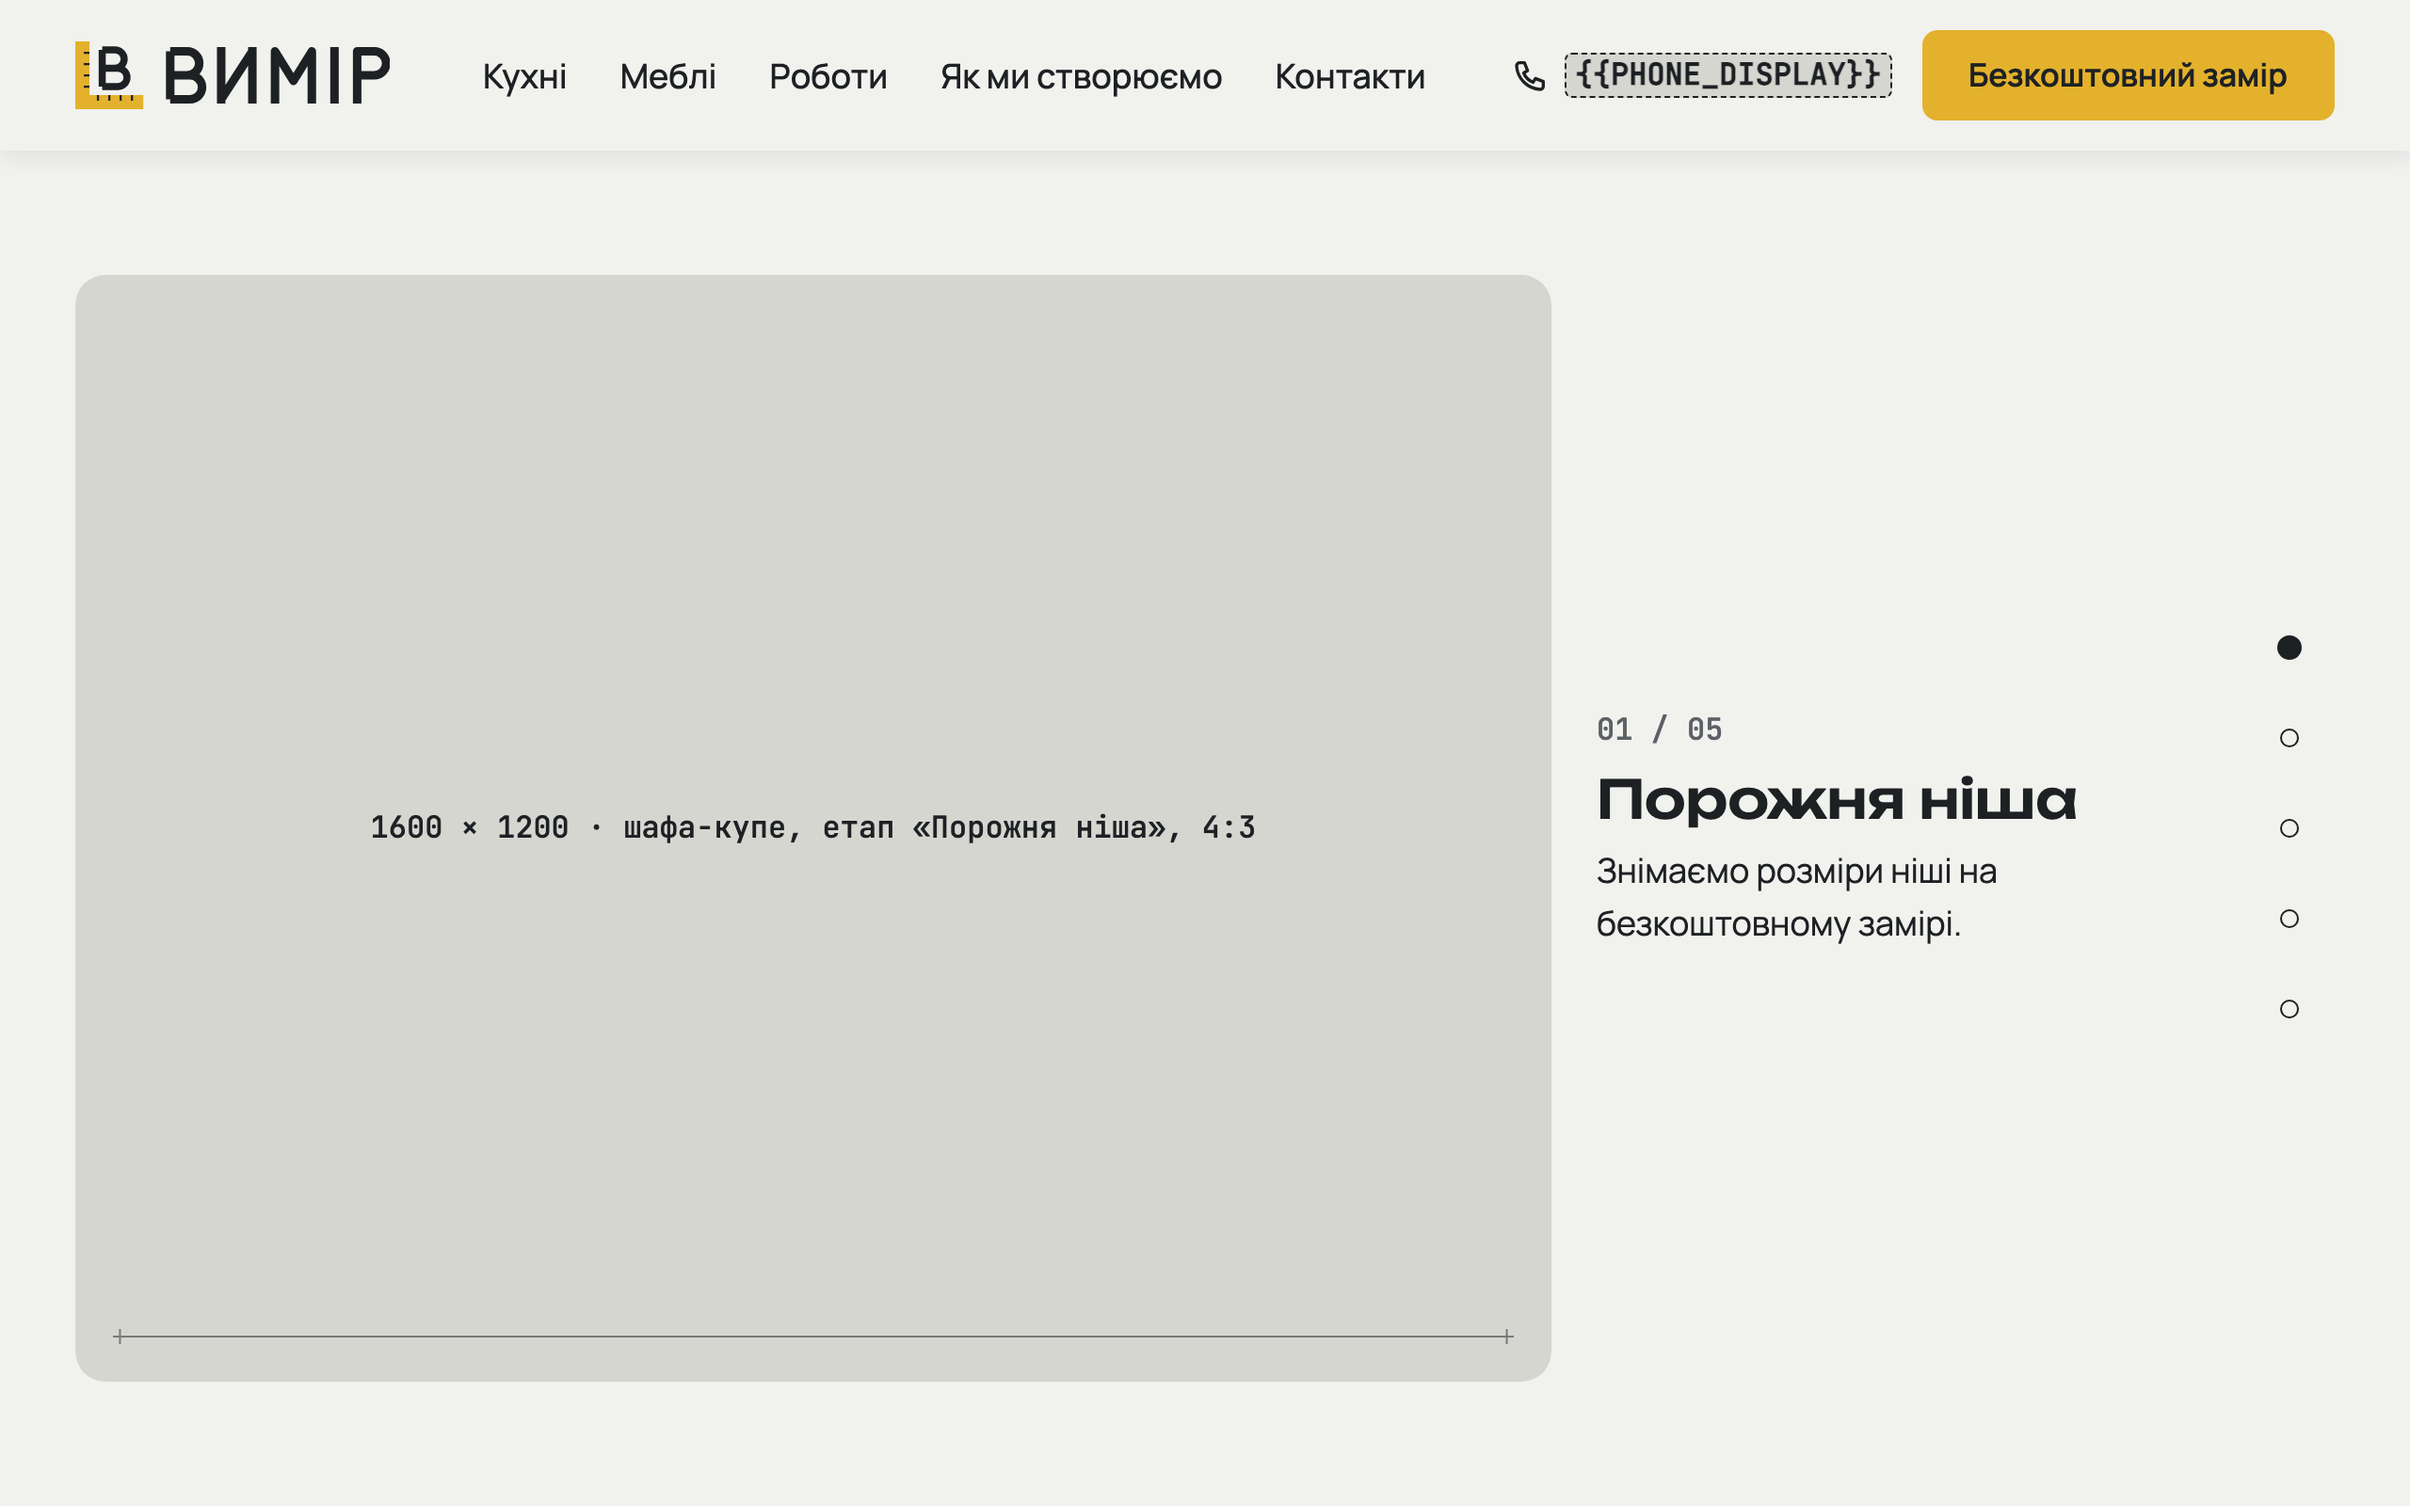
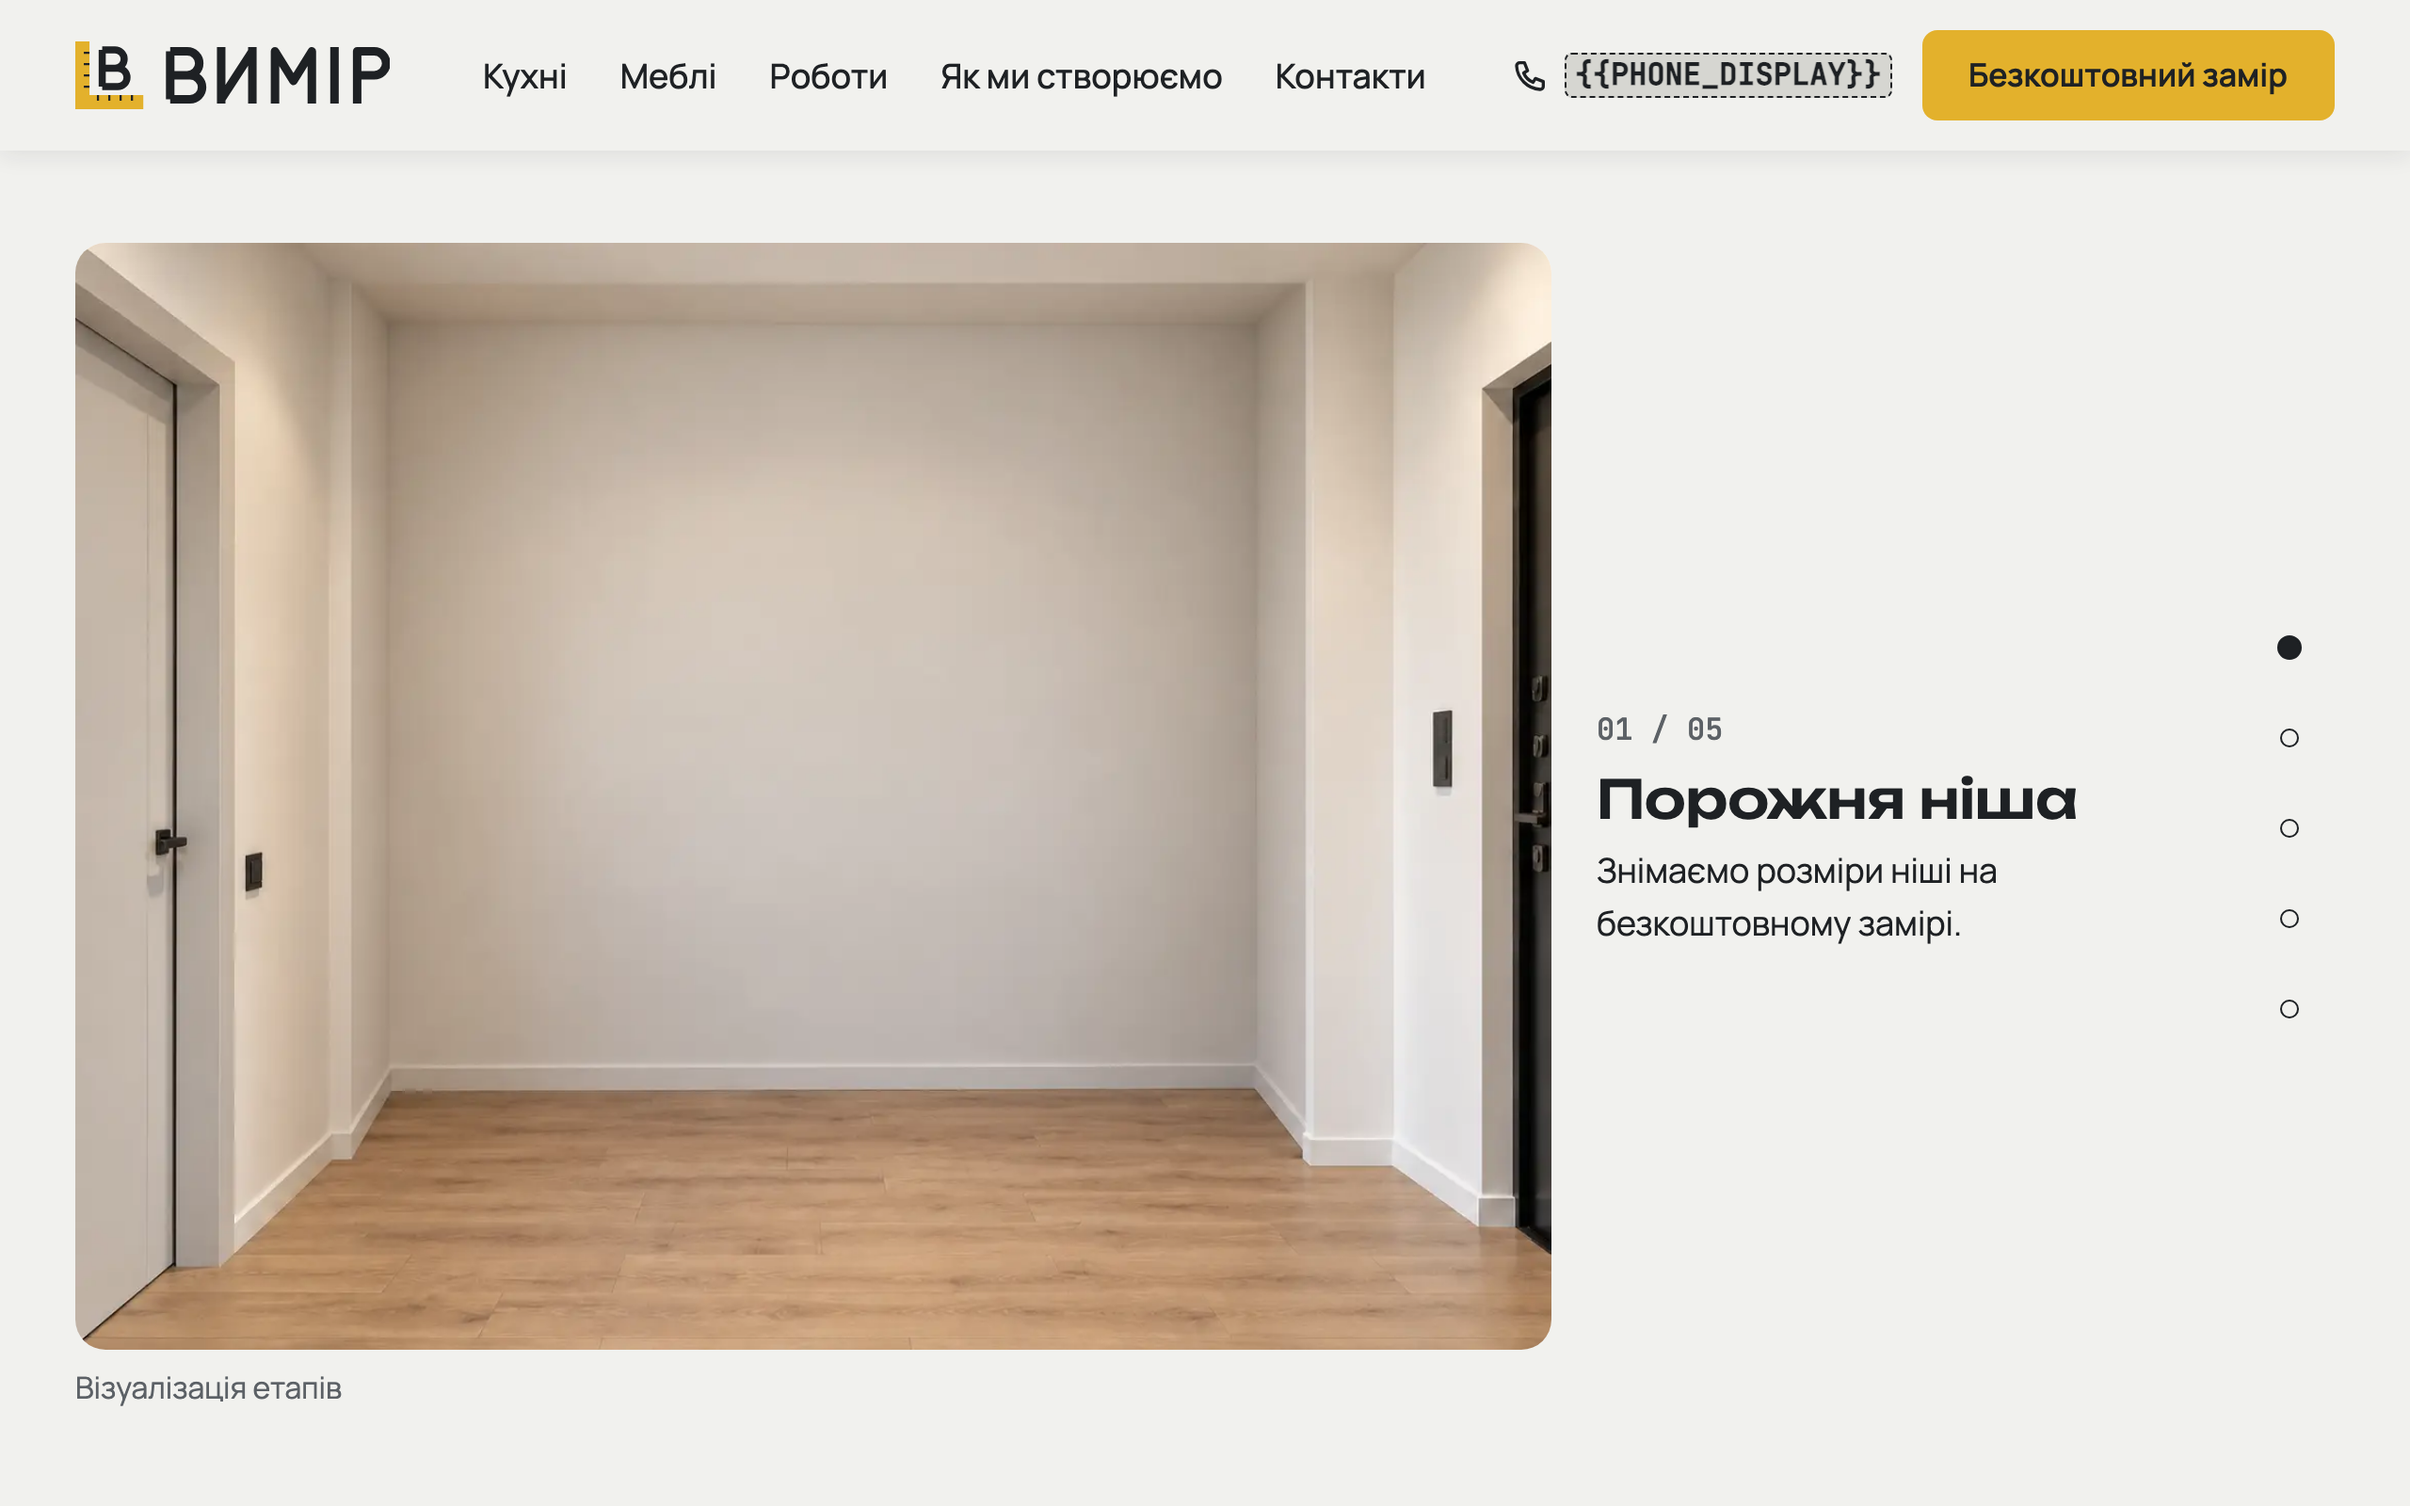
Як ми створюємо: кадри шафи-купе

diff --git a/tests/e2e/story.spec.ts b/tests/e2e/story.spec.ts
@@ -134,15 +134,23 @@ test.describe('содержимое', () => {
     await expect(page.locator(`${K} [data-step="0"] .story__note`)).toHaveCSS('color', 'rgb(92, 97, 102)');
   });
 
-  test('шафа-купе: 5 этапов из wardrobe.json, плейсхолдеры с подписью этапа', async ({ page }) => {
+  test('шафа-купе (flags.storyWardrobe): 5 этапов, кадры wardrobe-01 … 05, сцена 4:3, подпись «Візуалізація етапів»', async ({ page }) => {
     await page.goto(PATH);
     await expect(page.locator(`${W} h2`)).toHaveText('Шафа-купе');
     await expect(page.locator(`${W} .story__title`)).toHaveText(['Порожня ніша', 'Дизайн-проєкт', 'Корпус', 'Двері', 'Готово']);
     expect(wardrobe.stages.map((s) => s.title)).toEqual(['Порожня ніша', 'Дизайн-проєкт', 'Корпус', 'Двері', 'Готово']);
-    const labels = page.locator(`${W} .ph__label`);
-    await expect(labels).toHaveCount(5);
-    await expect(labels.nth(0)).toContainText('Порожня ніша');
-    await expect(page.locator(`${W} .story__note`)).toHaveCount(0); // плейсхолдер — не визуализация
+    const files = await page.locator(`${W} .story__step img.story__img`).evaluateAll((els) => els.map((e) => e.getAttribute('data-src') ?? e.getAttribute('src')));
+    expect(files).toHaveLength(5);
+    ['01-empty', '02-design', '03-carcass', '04-doors', '05-ready'].forEach((f, i) => expect(files[i]).toContain(`wardrobe-${f}`));
+    await expect(page.locator(`${W} .ph`)).toHaveCount(0); // плейсхолдеров больше нет
+    await expect(page.locator(`${W} .story__note`)).toHaveCount(5);
+    await expect(page.locator(`${W} .story__note`).first()).toHaveText('Візуалізація етапів');
+    await scrollToStage(page, W, 2);
+    await expect.poll(() => active(page, W)).toBe('2');
+    const frame = (await page.locator(`${W} [data-step="2"] .story__frame`).boundingBox())!;
+    expect(Math.abs(frame.width / frame.height - 4 / 3)).toBeLessThan(0.01);
+    await expect(page.locator(`${W} [data-step="2"] img`)).toHaveCSS('object-fit', 'contain');
+    await expect(page.locator(`${W} [data-step="2"] .story__note`)).toBeVisible();
   });
 
   test('размерные линии — только на этапе 1; на 375 px «ширина стіни» не касается розетки', async ({ page }) => {
@@ -163,12 +171,12 @@ test.describe('содержимое', () => {
     }
   });
 
-  test('кадры — WebP, каждый размер до 200 КБ', async ({ page }) => {
+  test('кадры обоих сюжетов — WebP, каждый размер до 200 КБ', async ({ page }) => {
     await page.goto(PATH);
     const urls = await page
-      .locator(`${K} .story__step img.story__img`)
+      .locator('[data-story] .story__step img.story__img')
       .evaluateAll((els) => els.flatMap((e) => (e.getAttribute('srcset') ?? e.getAttribute('data-srcset') ?? '').split(',').map((p) => p.trim().split(' ')[0])).filter(Boolean));
-    expect(urls.length).toBe(28);
+    expect(urls.length).toBe((7 + 5) * 4);
     for (const url of new Set(urls)) {
       expect(url).toMatch(/\.webp$/);
       const res = await page.request.get(url);

diff --git a/src/content/facts.ts b/src/content/facts.ts
@@ -233,6 +233,8 @@ export const facts = {
     teamCards: false as boolean,
     // Блок «Рекомендуйте нас» и вопрос о рекомендациях в FAQ. Поле «Хто вас порекомендував?» в формах есть всегда.
     referralEnabled: false as boolean,
+    // Сюжет «Шафа-купе» на странице «Як ми створюємо» (кадры получены 2026-10-21)
+    storyWardrobe: true as boolean,
   },
 } satisfies FactsSchema;
 
@@ -304,5 +306,6 @@ interface FactsSchema {
     leadSubmitEnabled: boolean;
     teamCards: boolean;
     referralEnabled: boolean;
+    storyWardrobe: boolean;
   };
 }

diff --git a/CLAUDE.md b/CLAUDE.md
@@ -99,11 +99,11 @@
 
 ## Решения владельца («Як ми створюємо», 2026-10-21)
 - Страница `/yak-my-stvoriuiemo`, общий компонент `src/components/story/Story.astro`, данные — `src/content/stories/<id>.json`.
-- Сюжет 1 — кухня, 7 кадров `src/assets/stories/kitchen/`: «Почнемо з вашого розміру», «Дизайн-проєкт», «Корпуси», «Фасади», «Стільниця», «Світло і техніка», «Готово». Сюжет 2 — шафа-купе: «Порожня ніша», «Дизайн-проєкт», «Корпус», «Двері», «Готово»; кадров пока нет — плейсхолдеры с подписью этапа.
+- Сюжет 1 — кухня, 7 кадров `src/assets/stories/kitchen/`: «Почнемо з вашого розміру», «Дизайн-проєкт», «Корпуси», «Фасади», «Стільниця», «Світло і техніка», «Готово». Сюжет 2 — шафа-купе, 5 кадров `src/assets/stories/wardrobe/`: «Порожня ніша», «Дизайн-проєкт», «Корпус», «Двері», «Готово»; включается флагом `facts.flags.storyWardrobe` (включён 2026-10-21).
 - Этапы меняются **прокруткой**: сцена закреплена (sticky, высота экрана), один этап на ~70 % высоты экрана, кадр и подпись (номер, заголовок, 1–2 строки) — перекрёстным затуханием. Сбоку индикатор этапов; клик по нему и стрелки — дополнительный способ.
 - При `prefers-reduced-motion` и без JavaScript этапы идут друг под другом статично.
 - Без библиотек, JS страницы до 10 КБ, анимируются только opacity и transform. Грузится текущий и следующий кадр.
-- Сцена 4:3 на всех ширинах, кадр без обрезки. Под кадром мелкая серая подпись «Візуалізація етапів».
+- Сцена 4:3 на всех ширинах, кадр без обрезки. Под кадром обоих сюжетов мелкая серая подпись «Візуалізація етапів».
 - Кадры — WebP при сборке, до 200 КБ на кадр (проверяет `tests/e2e/story.spec.ts`).
 - Размерные линии этапа 1 выровнены по стене на `kitchen-01-empty`, без цифр; подпись ширины — на полу, не касается розеток.
 - Ссылки: меню шапки после «Роботи», футер, на главной после блока «Як ми працюємо» — «Подивитися, як ми створюємо кухню».

diff --git a/docs/PLAN.md b/docs/PLAN.md
@@ -329,6 +329,12 @@
 - **Скриншоты:** `docs/screens/story-kitchen-stage{1,4,7}-{375,1280}.png`, `story-wardrobe-stage1-*.png`, `story-static-*.png`, `story-home-link-1280.png`.
 - **Коммит:** `Як ми створюємо: анімація прокруткою, шафа-купе, меню`
 
+### «Як ми створюємо»: кадры шафи-купе (2026-10-21)
+
+- **Что:** 5 кадров `src/assets/stories/wardrobe/` подключены к сюжету шафи по порядку, флаг `facts.flags.storyWardrobe = true`, подпись «Візуалізація етапів» под кадрами, WebP до 200 КБ.
+- **Скриншоты:** `docs/screens/story-wardrobe-stage{1,3,5}-{375,1280}.png`.
+- **Коммит:** `Як ми створюємо: кадри шафи-купе`
+
 ---
 
 ## Что блокирует фазы 5+ (нужно от владельца)
